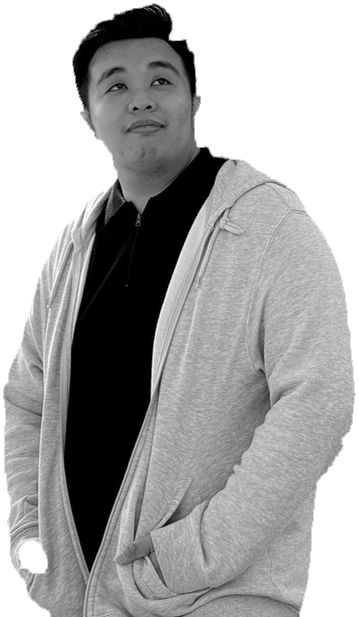
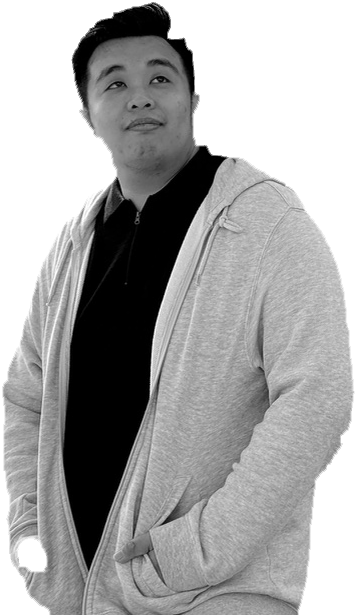
Fill cutout holes and trim portrait fringe
Close small sleeve holes and further reduce leftover gray edge smudge.

diff --git a/src/App.tsx b/src/App.tsx
@@ -103,7 +103,7 @@ function App() {
             aria-hidden="true"
           >
             <img
-              src="/ryan-portrait.png?v=2"
+              src="/ryan-portrait.png?v=3"
               alt=""
               className="animate-drift h-full w-full object-contain object-bottom"
             />
